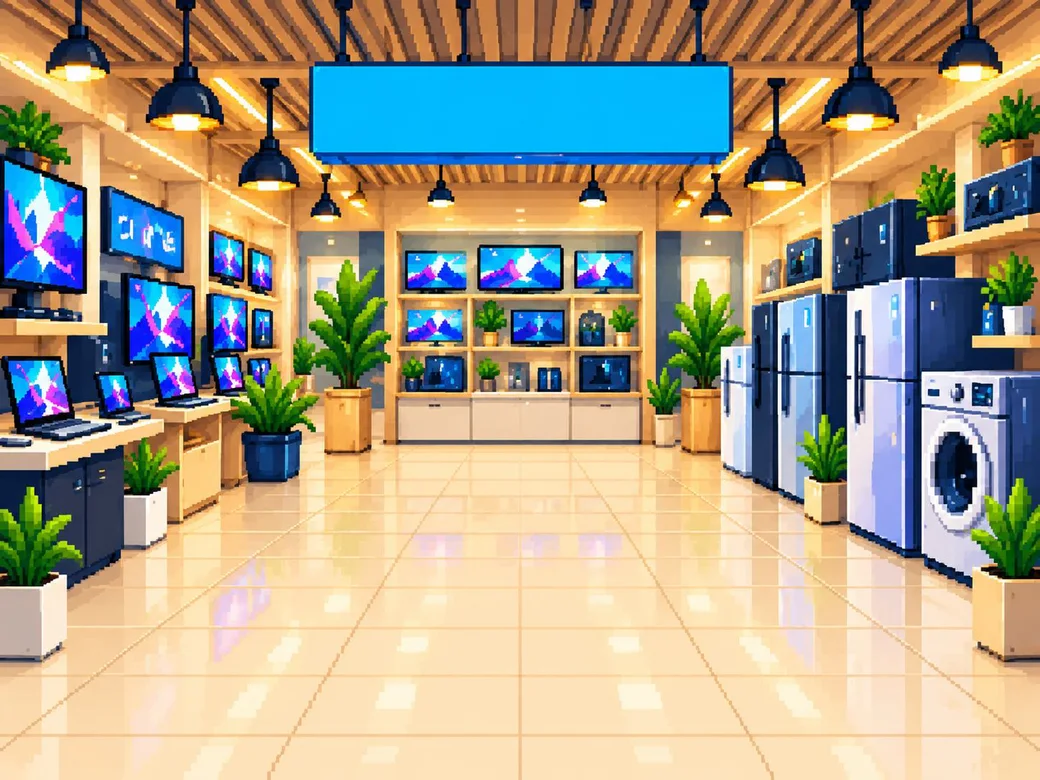
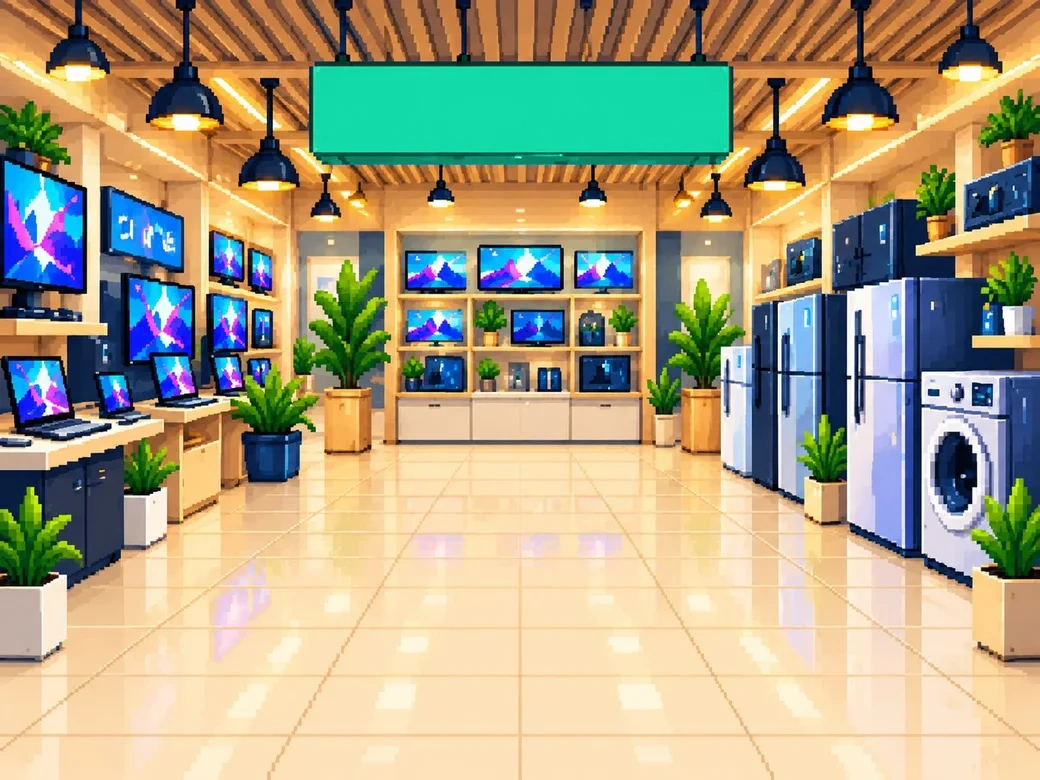
Refresh feedback form copy and colours
Mint Croma sign with navy wordmark, renamed form labels and submit
button, new confirmation message, and a default 'Rate your experience
with Zopper' message on the rating device screen.

Changed region(s): [[0.2769, 0.0615, 0.7077, 0.2154]]

diff --git a/src/feedback/FeedbackForm.jsx b/src/feedback/FeedbackForm.jsx
@@ -165,7 +165,7 @@ export default function FeedbackForm() {
           </header>
 
           <section className="fb-scene" aria-hidden="false">
-            <img className="fb-scene__croma" src={`${A}/croma-header.png`} alt="" aria-hidden="true" />
+            <img className="fb-scene__croma" src={`${A}/croma-navy.png`} alt="" aria-hidden="true" />
             <img className="fb-scene__person" src={`${A}/character.webp`} alt="" width="420" height="615" />
             <p className="fb-bubble" aria-hidden="true">How can we<br />support your<br />store better?</p>
             <img className="fb-scene__desk" src={`${A}/desk-sign.webp`} alt="" width="900" height="269" />
@@ -202,7 +202,7 @@ export default function FeedbackForm() {
                 </div>
 
                 <div className="fb-field" data-field="storeId-wrap">
-                  <label className="fb-label" id="fb-store-label" htmlFor="fb-store">Store name</label>
+                  <label className="fb-label" id="fb-store-label" htmlFor="fb-store">Croma Store</label>
                   <div onBlur={() => blur("storeId")}>
                     <StoreSelect
                       inputId="fb-store"
@@ -220,7 +220,7 @@ export default function FeedbackForm() {
                 </div>
 
                 <div className="fb-field">
-                  <label className="fb-label" htmlFor="fb-phone">Phone number</label>
+                  <label className="fb-label" htmlFor="fb-phone">Contact Number</label>
                   <div className={`fb-phone${err.phone ? " is-invalid" : ""}`}>
                     <span className="fb-phone__prefix" aria-hidden="true">+91</span>
                     <input
@@ -244,7 +244,7 @@ export default function FeedbackForm() {
                 </div>
 
                 <div className="fb-field">
-                  <label className="fb-label" htmlFor="fb-feedback">Personal feedback</label>
+                  <label className="fb-label" htmlFor="fb-feedback">Your feedback to Zopper&apos;s Senior Management</label>
                   <textarea
                     id="fb-feedback"
                     data-field="feedback"
@@ -283,14 +283,18 @@ export default function FeedbackForm() {
                 <img className="fb-plant fb-plant--r" src={`${A}/plant.webp`} alt="" aria-hidden="true" />
 
                 <fieldset className={`fb-rate${err.rating ? " is-invalid" : ""}${values.rating ? " has-value" : ""}`}>
-                  <legend className="fb-sr">How has your experience with Zopper been? Choose one rating from 1 to 5.</legend>
+                  <legend className="fb-sr">Rate your experience with Zopper. Choose one rating from 1 to 5.</legend>
                   <img className="fb-rate__img" src={`${A}/rating-panel.webp`} alt="" width="1000" height="530" />
-                  {values.rating > 0 && (
-                    <div className={`fb-rate__screen fb-rate__screen--${values.rating}`} aria-hidden="true">
-                      <span className="fb-rate__screen-hint">You picked</span>
-                      <span className="fb-rate__screen-label">{RATING_LABELS[values.rating]}</span>
-                    </div>
-                  )}
+                  <div className={`fb-rate__screen fb-rate__screen--${values.rating}`} aria-hidden="true">
+                    {values.rating > 0 ? (
+                      <>
+                        <span className="fb-rate__screen-hint">You picked</span>
+                        <span className="fb-rate__screen-label">{RATING_LABELS[values.rating]}</span>
+                      </>
+                    ) : (
+                      <span className="fb-rate__screen-label">Rate your experience with Zopper</span>
+                    )}
+                  </div>
                   {FACES.map((f) => (
                     <label
                       key={f.v}
@@ -327,7 +331,7 @@ export default function FeedbackForm() {
                     </>
                   ) : (
                     <>
-                      Submit feedback <span aria-hidden="true">→</span>
+                      Share Feedback <span aria-hidden="true">→</span>
                     </>
                   )}
                 </button>

diff --git a/src/feedback/feedback.css b/src/feedback/feedback.css
@@ -388,6 +388,8 @@
 }
 .fb-rate__screen-hint { font-size: calc(var(--u) * 7.5); letter-spacing: 0.12em; text-transform: uppercase; opacity: 0.75; }
 .fb-rate__screen-label { font-size: calc(var(--u) * 17); font-weight: 700; line-height: 1.05; }
+.fb-rate__screen--0 { padding: 0 calc(var(--u) * 10); }
+.fb-rate__screen--0 .fb-rate__screen-label { font-size: calc(var(--u) * 13.5); }
 .fb-rate__screen--1 .fb-rate__screen-label { color: #ff7a59; text-shadow: 0 0 calc(var(--u) * 6) rgba(255, 122, 89, 0.55); }
 .fb-rate__screen--2 .fb-rate__screen-label { color: #ffb347; text-shadow: 0 0 calc(var(--u) * 6) rgba(255, 179, 71, 0.55); }
 .fb-rate__screen--3 .fb-rate__screen-label { color: #ffe94d; text-shadow: 0 0 calc(var(--u) * 6) rgba(255, 233, 77, 0.5); }
